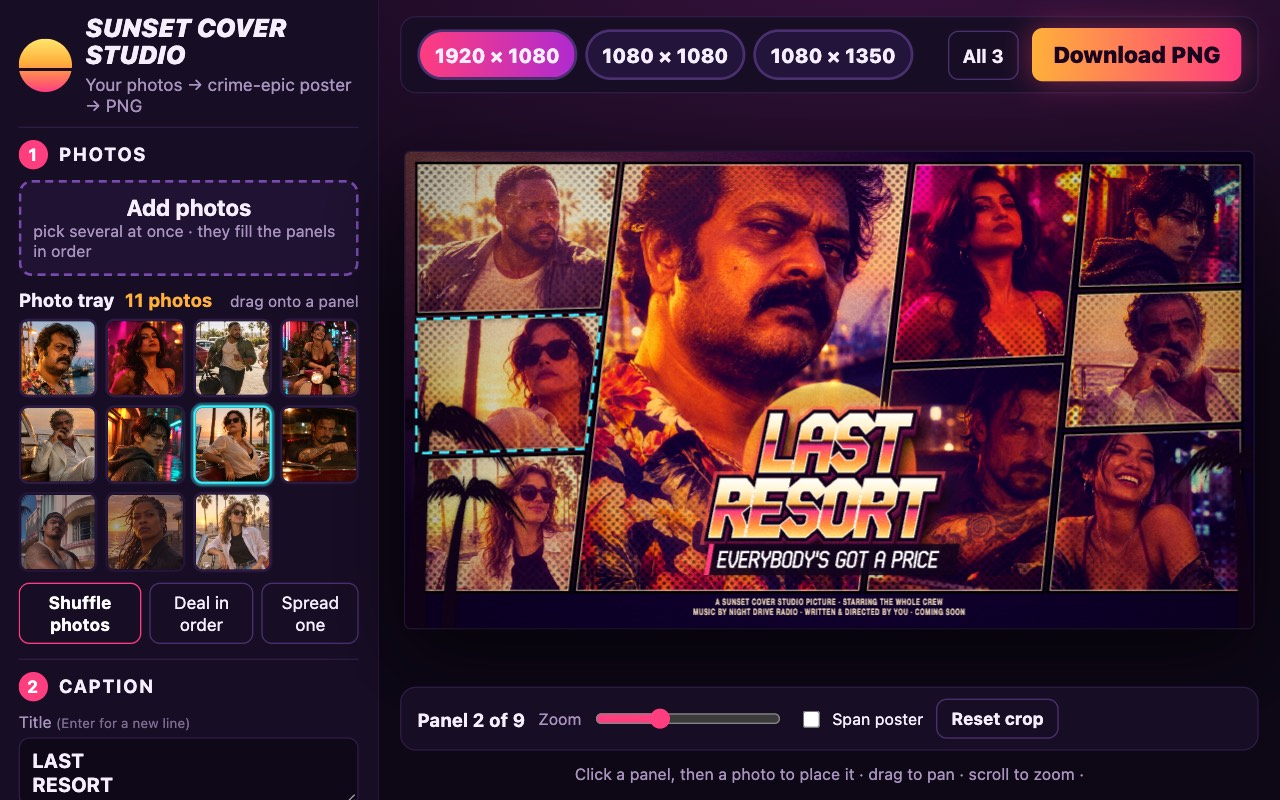
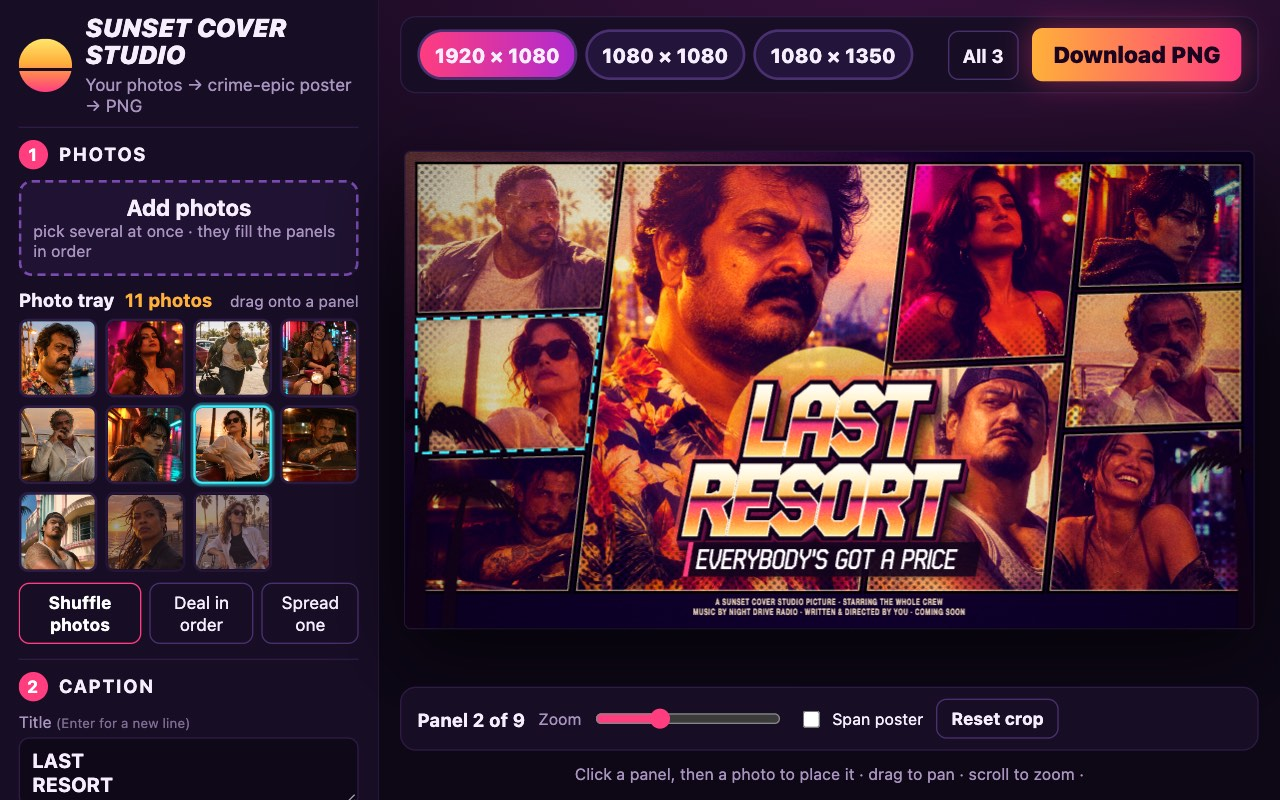
Bigger Line-Up title, halftone dots kept off faces, sharper square screenshot, README notes on halftone, palms and chrome lettering

diff --git a/app/src/renderCover.js b/app/src/renderCover.js
@@ -133,7 +133,7 @@ export function renderCover(canvas, state) {
   const t = layout.title;
   // The sun sits right behind the lettering (auto-fill keeps faces out of its disc), so it frames the title.
   if (state.fx.sun) drawSun(ctx, layout.sun.cx, layout.sun.cy, layout.sun.r, grade);
-  if (state.fx.halftone) drawHalftone(ctx, w, h, Math.max(5, s * 0.011), 0.85, layout.panels, grade.extrude[1]);
+  if (state.fx.halftone) drawHalftone(ctx, w, h, Math.max(5, s * 0.0105), 0.9, layout.panels, grade.extrude[1]);
 
   // 3. Frames, palms, vignette, then the credits strip along the bottom.
   drawPanelFrames(ctx, layout.panels, grade, s);

diff --git a/app/src/colorGrade.js b/app/src/colorGrade.js
@@ -312,7 +312,7 @@ export function drawHalftone(ctx, w, h, cell, amount, panels, color = '#000') {
   const m = mask.getContext('2d');
   for (const { poly, bbox } of panels) {
     const cx = bbox.x + bbox.w / 2, cy = bbox.y + bbox.h * 0.42, r = Math.hypot(bbox.w, bbox.h) / 2;
-    const g = m.createRadialGradient(cx, cy, r * 0.42, cx, cy, r * 1.02);
+    const g = m.createRadialGradient(cx, cy, r * 0.6, cx, cy, r * 1.05);
     g.addColorStop(0, 'rgba(0,0,0,0)');
     g.addColorStop(1, 'rgba(0,0,0,1)');
     m.save();

diff --git a/app/src/layouts.js b/app/src/layouts.js
@@ -18,7 +18,7 @@ export const TEMPLATES = {
     landscape: {
       dir: 'cols', cuts: [[0.25, 0.19], [0.60, 0.54], [0.81, 0.76]],
       sub: [[[0.36, 0.31], [0.68, 0.63]], [], [[0.52, 0.44]], [[0.34, 0.29], [0.67, 0.61]]],
-      title: { x: 0.16, y: 0.565, w: 0.68, h: 0.31, align: 'center' },
+      title: { x: 0.14, y: 0.5, w: 0.72, h: 0.37, align: 'center' },
     },
     square: {
       dir: 'rows', cuts: [[0.28, 0.23], [0.66, 0.60]],

diff --git a/README.md b/README.md
@@ -4,7 +4,7 @@
 [![rank](https://make.fun/badge/gta6-cover-art-01/ItzSudhan/sunset-cover-studio/rank.svg)](https://make.fun/bounty/gta6-cover-art-01/leaderboard?utm_source=github&utm_medium=readme&utm_campaign=gta6-cover-art-01)
 [![reward](https://make.fun/badge/gta6-cover-art-01/ItzSudhan/sunset-cover-studio/reward.svg)](https://make.fun/bounty/gta6-cover-art-01?utm_source=github&utm_medium=readme&utm_campaign=gta6-cover-art-01)
 
-Sunset Cover Studio turns a whole cast of your photos and a caption into crime-epic poster cover art, in an original design: 4 to 9 slanted, framed panels (five layout templates, including the 9-panel Line-Up), a film-style grade (Sunset Strip, Neon Night, Miami Teal, Golden Hour, Midnight Chrome) that keeps skin tones warm and natural: an S-curve, a teal/orange-style split-tone and the sunset gradient map blended in at partial strength, with highlight glow and fine grain, plus an optional striped sun behind the lettering, palm silhouettes and halftone. The panels have crisp borders, with thin black gutters and a slight white inner line, and a credits billing block runs under them. The title lettering is big and slanted, drawn with canvas paths (gradient fill, outline, extrusion, shadow), with a "Coming soon" tagline plate. There are no font files.
+Sunset Cover Studio turns a whole cast of your photos and a caption into crime-epic poster cover art, in an original design: 4 to 9 slanted, framed panels (five layout templates, including the 9-panel Line-Up), a film-style grade (Sunset Strip, Neon Night, Miami Teal, Golden Hour, Midnight Chrome) that keeps skin tones warm and natural: an S-curve, a teal/orange-style split-tone and the sunset gradient map blended in at partial strength, with highlight glow and fine grain, plus an optional striped sun behind the lettering, palm silhouettes and halftone. The panels have crisp borders, with thin black gutters and a slight white inner line, and a credits billing block runs under them. Comic halftone dots fade in towards each panel's edges and corners, keeping faces clean, and palm silhouettes frame the corners. The title lettering is big and slanted, drawn with canvas paths (a chrome gradient with a dark horizon band, a thick dark outline, extrusion, drop shadow), with a tagline strap such as "Everybody's got a price". There are no font files.
 
 Add several photos at once and they fill the panels in order. The hero gets the biggest clear panel with a big face, and every panel gets a face-aware crop. Auto-fill scores candidate crops so that no face sits under the title lettering, its tagline or the sun disc, and gives each panel the photo whose face fits it best: a short panel above the title gets a small face rather than a cut-off close-up. Photos you add sit in a tray: drag one onto any panel, click "Shuffle photos" to re-deal the cast, or drag to pan and scroll (or use the slider) to zoom within a panel. Then download a PNG at 1920×1080, 1080×1080 or 1080×1350, or all three. It ships with 11 sample photos of fictional people. It is a static, offline web app with no build step and no network requests.
 
